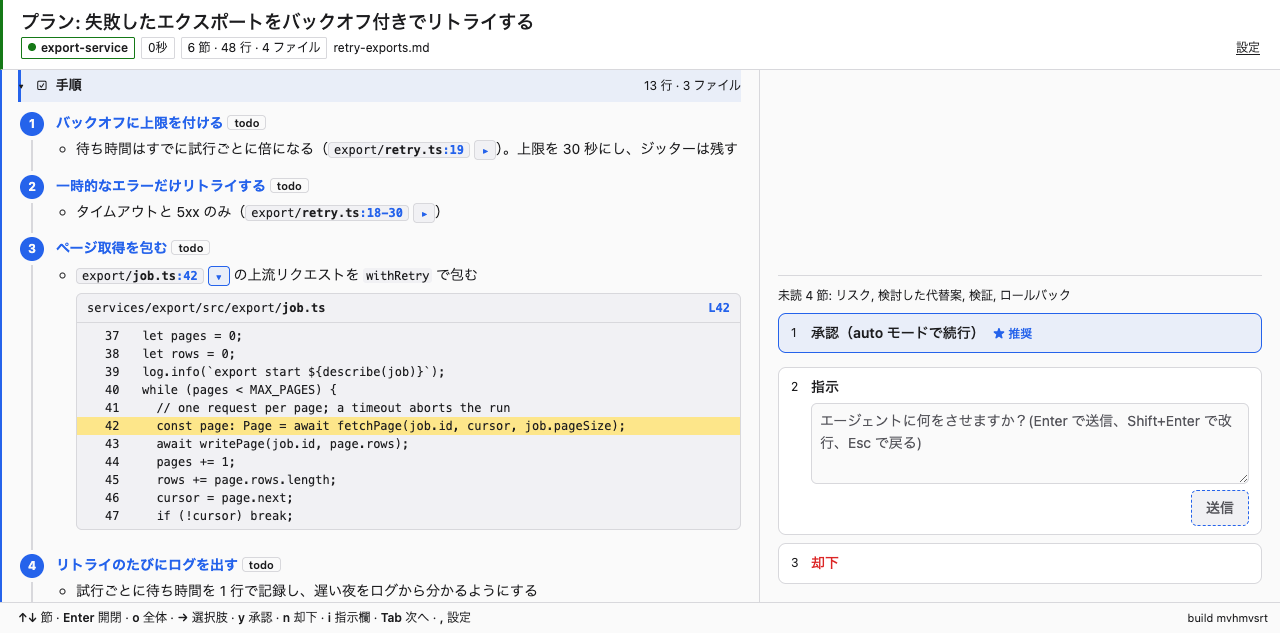
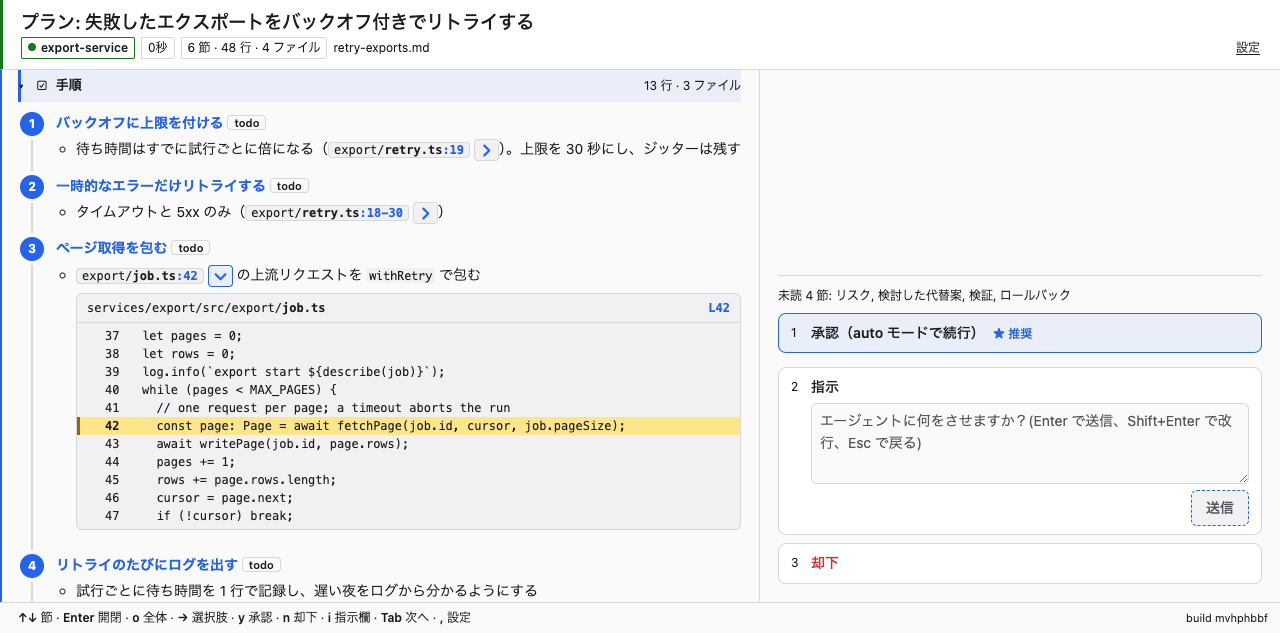
fix: draw the toggle chevron and mark the hit line with a yellow tint and an edge bar

diff --git a/public/app.css b/public/app.css
@@ -3,6 +3,7 @@
   --repo-l: 28%; --repo: #a855f7; --branch: #16a34a; --worktree: #ea580c; --blocker: #f97316;
   --accent: #2563eb; --accent-bg: #2563eb14; --red: #dc2626; --yellow: #ca8a04; --yellow-bg: #fde68a; --green: #16a34a;
   --add: #dcfce7; --del: #fee2e2; --hunk: #e0e7ff; --file: #e5e7eb; --code: #f1f1f4;
+  --hit-bg: #fde68a; --hit-edge: #a16207; /* the referenced lines of a code snippet: a tint over the code background and a solid left bar */
   --opt-0: #d97706; --opt-1: #0d9488; --opt-2: #db2777; --opt-3: #7c3aed; --purple: #7c3aed;
   color-scheme: light dark;
 }
@@ -12,7 +13,7 @@
     --bg: #17171a; --fg: #e8e8ec; --muted: #b0b0b8; --line: #34343a; --panel: #1f1f24;
     --repo-l: 74%; --repo: #c084fc; --branch: #4ade80; --worktree: #fb923c; --blocker: #fb923c;
     --accent: #6ea0ff; --accent-bg: #6ea0ff1f; --red: #f87171; --yellow: #facc15; --yellow-bg: #5f3510; --green: #4ade80;
-    --add: #14352180; --del: #45151580; --hunk: #25306080; --file: #3a3a4280; --code: #26262c;
+    --add: #14352180; --del: #45151580; --hunk: #25306080; --file: #3a3a4280; --code: #26262c; --hit-bg: rgb(250 204 21 / 0.22); --hit-edge: #facc15;
     --opt-0: #fbbf24; --opt-1: #2dd4bf; --opt-2: #f472b6; --opt-3: #a78bfa; --purple: #a78bfa;
   }
 }
@@ -20,7 +21,7 @@
   --bg: #17171a; --fg: #e8e8ec; --muted: #b0b0b8; --line: #34343a; --panel: #1f1f24;
   --repo-l: 74%; --repo: #c084fc; --branch: #4ade80; --worktree: #fb923c; --blocker: #fb923c;
   --accent: #6ea0ff; --accent-bg: #6ea0ff1f; --red: #f87171; --yellow: #facc15; --yellow-bg: #5f3510; --green: #4ade80;
-  --add: #14352180; --del: #45151580; --hunk: #25306080; --file: #3a3a4280; --code: #26262c;
+  --add: #14352180; --del: #45151580; --hunk: #25306080; --file: #3a3a4280; --code: #26262c; --hit-bg: rgb(250 204 21 / 0.22); --hit-edge: #facc15;
   --opt-0: #fbbf24; --opt-1: #2dd4bf; --opt-2: #f472b6; --opt-3: #a78bfa;
 }
 :root[data-theme="light"] { color-scheme: light; }
@@ -571,8 +572,12 @@ html:has(> body.settings-page) { scrollbar-gutter: stable; }
 .cbadge.short .fr-up { display: none; }
 .cbadge.short .fr-base { font-weight: 700; }
 .cbadge.short .fr-line { color: var(--accent); font-weight: 600; }
-/* The ▸ next to a reference: a real button (22x20 hit area), the glyph in the accent colour; the negative margins keep the line height of the paragraph or list item */
-.md .fr-toggle { display: inline-flex; align-items: center; justify-content: center; box-sizing: border-box; min-width: 22px; height: 20px; padding: 0 5px; margin: -2px 0 -2px 4px; vertical-align: middle; font: inherit; font-size: 17px; line-height: 1; color: var(--accent); background: var(--code); border: 1px solid var(--line); border-radius: 4px; cursor: pointer; }
+/* The button next to a reference: a real button (24x22 hit area) with a drawn chevron (not a font glyph) in the accent colour, turned down when the snippet is open;
+   the negative margins keep the line height of the paragraph or list item */
+.md .fr-toggle { display: inline-flex; align-items: center; justify-content: center; box-sizing: border-box; min-width: 24px; height: 22px; padding: 0 5px; margin: -3px 0 -3px 4px; vertical-align: middle; color: var(--accent); background: var(--code); border: 1px solid var(--line); border-radius: 4px; cursor: pointer; }
+.md .fr-toggle .fr-chev { display: block; width: 13px; height: 13px; }
+@media (prefers-reduced-motion: no-preference) { .md .fr-toggle .fr-chev { transition: transform .12s; } }
+.md .fr-toggle[aria-expanded="true"] .fr-chev { transform: rotate(90deg); }
 .md .fr-toggle:hover, .md .fr-toggle:focus-visible { border-color: var(--accent); background: var(--accent-bg); }
 .md .fr-toggle:focus-visible { outline: 2px solid var(--accent); outline-offset: 1px; }
 .md .fr-toggle[aria-expanded="true"] { border-color: var(--accent); background: var(--accent-bg); }
@@ -584,7 +589,9 @@ html:has(> body.settings-page) { scrollbar-gutter: stable; }
 .md .src-range { margin-left: auto; white-space: nowrap; color: var(--accent); font-weight: 600; }
 .md .src-lines { overflow-x: auto; padding: 4px 0; font: 12px/1.5 ui-monospace, SFMono-Regular, Menlo, monospace; }
 .md .src-row { display: flex; min-width: max-content; }
-.md .src-row.hit { background: var(--yellow-bg); }
+.md .src-row.hit { background: var(--hit-bg); }
+.md .src-row.hit .src-n { font-weight: 700; box-shadow: inset 3px 0 0 var(--hit-edge); }
+@media (forced-colors: active) { .md .src-row.hit .src-n { box-shadow: none; border-left: 3px solid Highlight; padding-left: 7px; } }
 .md .src-n { flex: none; width: 4.5ch; padding: 0 8px 0 10px; box-sizing: content-box; text-align: right; user-select: none; }
 .md .src-t { white-space: pre; min-height: 1.5em; padding-right: 10px; }
 .md .codefile { margin: 6px 0; }

diff --git a/public/app.js b/public/app.js
@@ -522,7 +522,7 @@ function shortRef(code, r, doc) {
   // The button carries what it needs (cloneNode copies it into the unknowns row and the assumptions box); one handler on the document serves them all
   if (r.line && doc?.id && !isPlanId(doc.id) && doc.session?.cwd && !code.closest("h1, h2, h3, h4, h5, h6, summary, a, button")) {
     const label = t("src_show", { path: text });
-    code.after(el("button", { type: "button", class: "fr-toggle", tabindex: "-1", "aria-expanded": "false", "aria-label": label, title: label, text: "▸", "data-decision": doc.id, "data-path": r.path, "data-line": String(r.line), "data-end": r.end ? String(r.end) : null, "data-ref": text }));
+    code.after(el("button", { type: "button", class: "fr-toggle", tabindex: "-1", "aria-expanded": "false", "aria-label": label, title: label, "data-decision": doc.id, "data-path": r.path, "data-line": String(r.line), "data-end": r.end ? String(r.end) : null, "data-ref": text }, chevron()));
   }
 }
 
@@ -530,6 +530,17 @@ document.addEventListener("click", (e) => {
   const btn = e.target instanceof Element ? e.target.closest(".fr-toggle") : null;
   if (btn) toggleSource(btn);
 });
+
+// The chevron of the ▸ button, drawn (not a font glyph, which comes out tiny); CSS turns it down when the snippet is open
+function chevron() {
+  const ns = "http://www.w3.org/2000/svg";
+  const svg = document.createElementNS(ns, "svg");
+  for (const [k, v] of Object.entries({ viewBox: "0 0 12 12", width: "13", height: "13", class: "fr-chev", "aria-hidden": "true", focusable: "false" })) svg.setAttribute(k, v);
+  const path = document.createElementNS(ns, "path");
+  for (const [k, v] of Object.entries({ d: "M4 1.5 8.5 6 4 10.5", fill: "none", stroke: "currentColor", "stroke-width": "2", "stroke-linecap": "round", "stroke-linejoin": "round" })) path.setAttribute(k, v);
+  svg.append(path);
+  return svg;
+}
 
 const openSnips = new WeakMap(); // button -> the snippet it opened
 
@@ -540,7 +551,6 @@ async function toggleSource(btn) {
     open.remove();
     openSnips.delete(btn);
     btn.setAttribute("aria-expanded", "false");
-    btn.textContent = "▸";
     return;
   }
   const snip = el("div", { class: "src-snip", role: "group", "aria-label": btn.dataset.ref ?? "", text: t("src_loading") });
@@ -548,7 +558,6 @@ async function toggleSource(btn) {
   if (!host) btn.parentElement.after(snip); else if (host.tagName === "P") host.after(snip); else host.append(snip);
   openSnips.set(btn, snip);
   btn.setAttribute("aria-expanded", "true");
-  btn.textContent = "▾";
   try {
     const q = new URLSearchParams({ decision: btn.dataset.decision ?? "", path: btn.dataset.path ?? "", line: btn.dataset.line ?? "" });
     if (btn.dataset.end) q.set("end", btn.dataset.end);

diff --git a/test/gui/markdown.test.ts b/test/gui/markdown.test.ts
@@ -425,6 +425,8 @@ I recommend **Sqlite** because it is simpler. Another option is right if the nig
   assert.equal(text(".src-head .src-path"), "src/cache.ts");
   // ▸ is a mouse helper: it is not a tab stop, and Enter after a click on it leaves the snippet alone (Enter belongs to the decision)
   assert.equal(ev<boolean>(`[...document.querySelectorAll(".fr-toggle")].every((b) => b.tabIndex === -1)`), true);
+  // the chevron is drawn (an svg), not a glyph of the font: no text in the button, and it turns down while the snippet is open
+  assert.equal(ev<boolean>(`[...document.querySelectorAll(".fr-toggle")].every((b) => b.textContent === "" && !!b.querySelector("svg.fr-chev"))`), true);
   ev(`document.querySelectorAll(".fr-toggle")[0].click(), "ok"`);
   await waitFor("closed again", `document.querySelectorAll(".src-snip").length === 0`);
   ab("click", "#background .fr-toggle");
